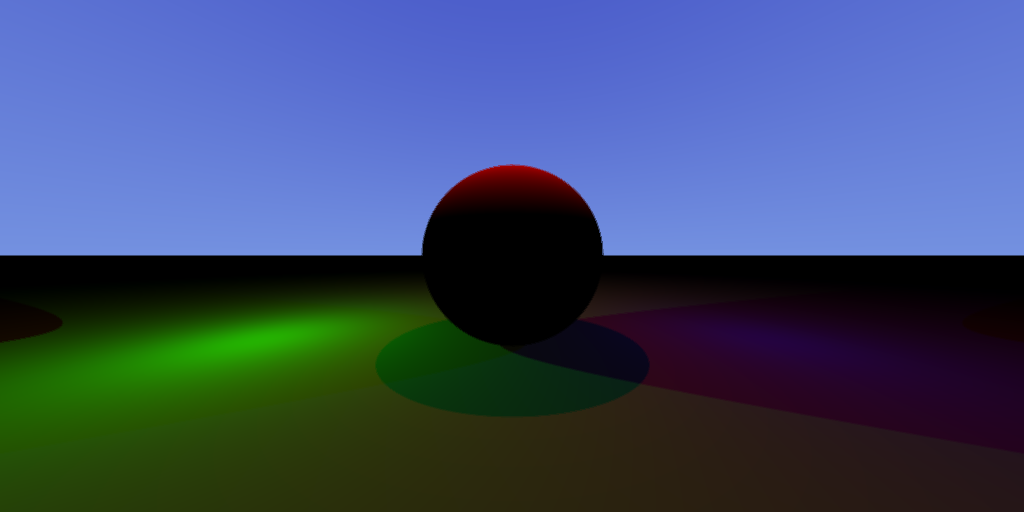
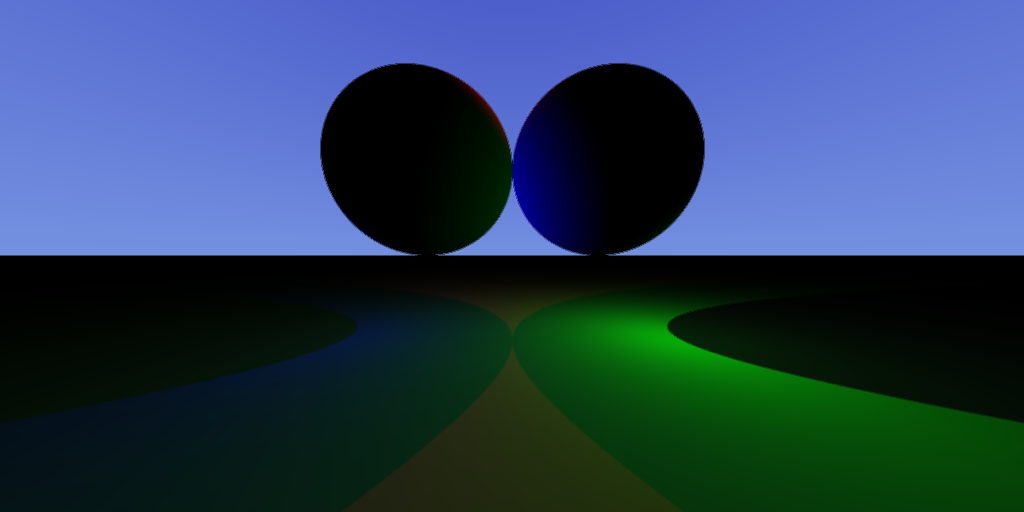
Fri Mar 21 17:56:36 CET 2025

diff --git a/src/synthese/Application.cpp b/src/synthese/Application.cpp
@@ -17,13 +17,18 @@ Application::Application()
     : camera(0.0f, 0.0f, 0.0f) {
     /* ---- Lights ---- */
     // lights.emplace_back(new DirectionalLight(Color(1.0f, 1.0f, 1.0f), Vector(-4.0f, 6.0f, 1.0f)));
-    lights.emplace_back(new PointLight(Color(1.0f, 0.0f, 0.0f), Point(0.0f, 3.0f, -3.0f), 15.0f));
-    lights.emplace_back(new PointLight(Color(0.0f, 1.0f, 0.0f), Point(-3.0f, 0.01f, -3.0f), 15.0f));
-    lights.emplace_back(new PointLight(Color(0.0f, 0.0f, 1.0f), Point(3.0f, 0.01f, -3.0f), 15.0f));
+    // lights.emplace_back(new PointLight(White(), Point(0.0f, 3.0f, -5.0f), 0.045f, 0.0075f));
+
+    float linear = 0.09f;
+    float quadratic = 0.032f;
+    lights.emplace_back(new PointLight(Red(), Point(0.0f, 2.0f, -3.0f), linear, quadratic));
+    lights.emplace_back(new PointLight(Green(), Point(2.0f, 0.01f, -3.0f), linear, quadratic));
+    lights.emplace_back(new PointLight(Blue(), Point(-2.0f, 0.01f, -3.0f), linear, quadratic));
 
     /* ---- Objects ---- */
     objects.push_back(new Plane(Color(0.267f, 0.749f, 0.267f), Point(0.0f, -1.0f, 0.0f), Vector(0.0f, 1.0f, 0.0f)));
-    objects.push_back(new Sphere(Color(1.0f, 0.0f, 0.0f), Point(0.0f, 0.0f, -3.0f), 1.0f));
+    objects.push_back(new Sphere(Color(0.82f, 0.2f, 0.2f), Point(-1.0f, 1.0f, -3.0f), 1.0f));
+    objects.push_back(new Sphere(Color(0.2f, 0.2f, 0.82f), Point(1.0f, 1.0f, -3.0f), 1.0f));
 }
 
 Application::~Application() {

diff --git a/src/synthese/Light.cpp b/src/synthese/Light.cpp
@@ -17,15 +17,15 @@ Color DirectionalLight::calculate(const Hit& hit, Ray& ray) const {
     return color * std::max(dot(hit.normal, ray.direction), 0.0f);
 }
 
-PointLight::PointLight(const Color& color, const Point& position, float radius)
-    : Light(color), position(position), radius(radius) { }
+PointLight::PointLight(const Color& color, const Point& position, float linear, float quadratic)
+    : Light(color), position(position), linear(linear), quadratic(quadratic) { }
 
 Color PointLight::calculate(const Hit& hit, Ray& ray) const {
     ray.direction = position - ray.origin;
     float distance = length(ray.direction);
     ray.direction = ray.direction / distance;
 
-    float attenuation = std::max(1.0f - std::sqrt(distance * distance / (radius * radius)), 0.0f);
+    float attenuation = 1.0f / (1.0f + distance * (linear + distance * quadratic));
 
     return color * attenuation * std::max(dot(hit.normal, ray.direction), 0.0f);
 }

diff --git a/include/synthese/Light.hpp b/include/synthese/Light.hpp
@@ -27,12 +27,13 @@ struct DirectionalLight : Light {
 };
 
 struct PointLight : Light {
-    PointLight(const Color& color, const Point& position, float radius);
+    PointLight(const Color& color, const Point& position, float linear, float quadratic);
 
     Color calculate(const Hit& hit, Ray& ray) const override;
 
     Point position;
-    float radius;
+    float linear;
+    float quadratic;
 };
 
 struct SpotLight : Light {
